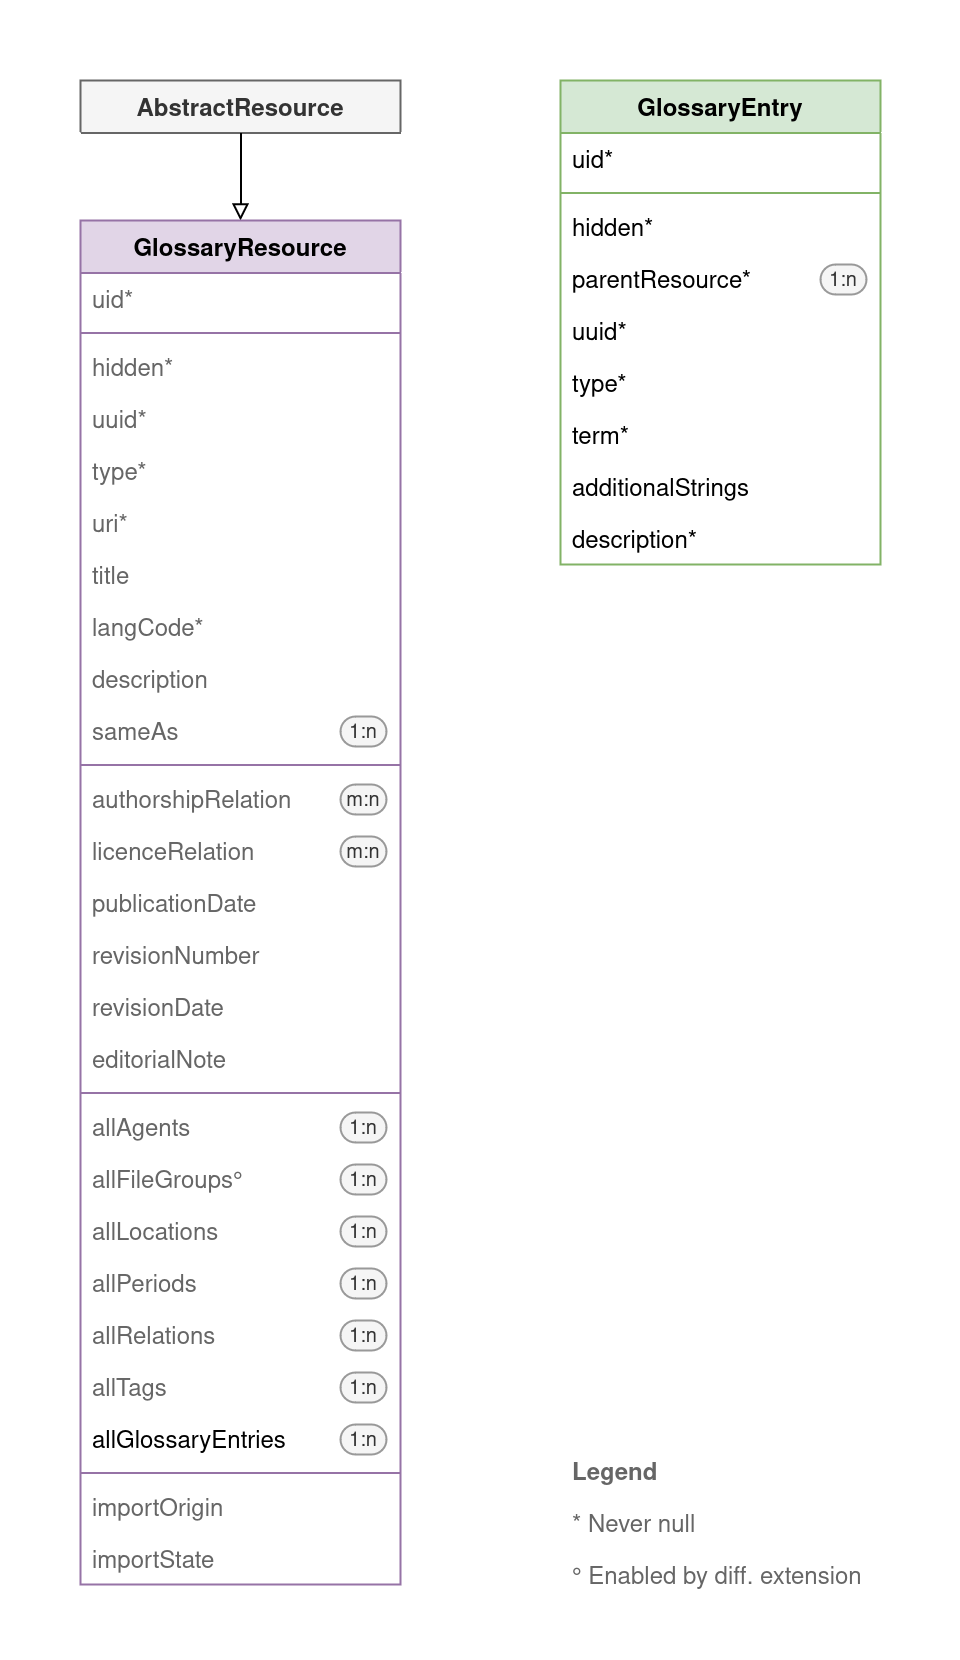
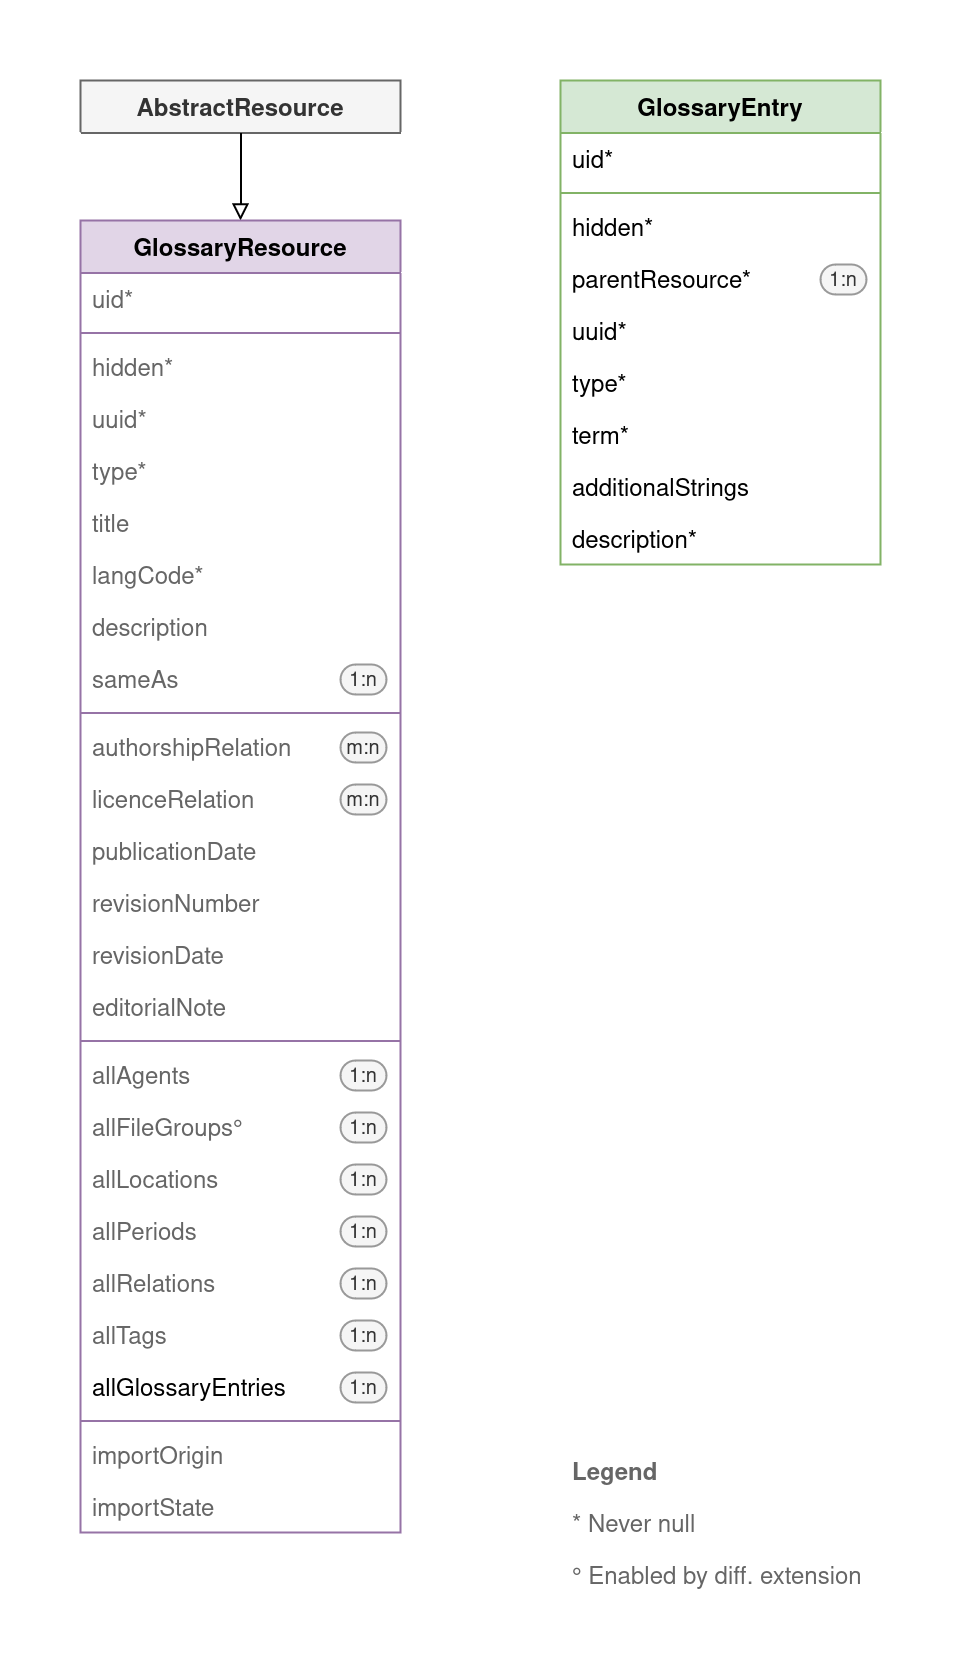
Remove uri property from resources

diff --git a/Configuration/TCA/Overrides/tx_chfbase_domain_model_resource.php b/Configuration/TCA/Overrides/tx_chfbase_domain_model_resource.php
@@ -105,7 +105,7 @@ defined('TYPO3') or die();
 // Add type 'glossaryResource' and its 'showitem' list
 \TYPO3\CMS\Core\Utility\ExtensionManagementUtility::addToAllTCAtypes(
    'tx_chfbase_domain_model_resource',
-   'hiddenUuid,typeUri,titleLangCode,description,sameAs,
+   'hidden,uuidType,titleLangCode,description,sameAs,
    --div--;LLL:EXT:chf_base/Resources/Private/Language/locallang.xlf:object.generic.editorial,authorshipRelation,licenceRelation,publicationDateRevisionNumberRevisionDate,editorialNote,
    --div--;LLL:EXT:chf_base/Resources/Private/Language/locallang.xlf:object.generic.content,allAgents,allFileGroups,allLocations,allPeriods,allRelations,allTags,allGlossaryEntries,
    --div--;LLL:EXT:chf_base/Resources/Private/Language/locallang.xlf:object.generic.import,importOrigin,importState,
